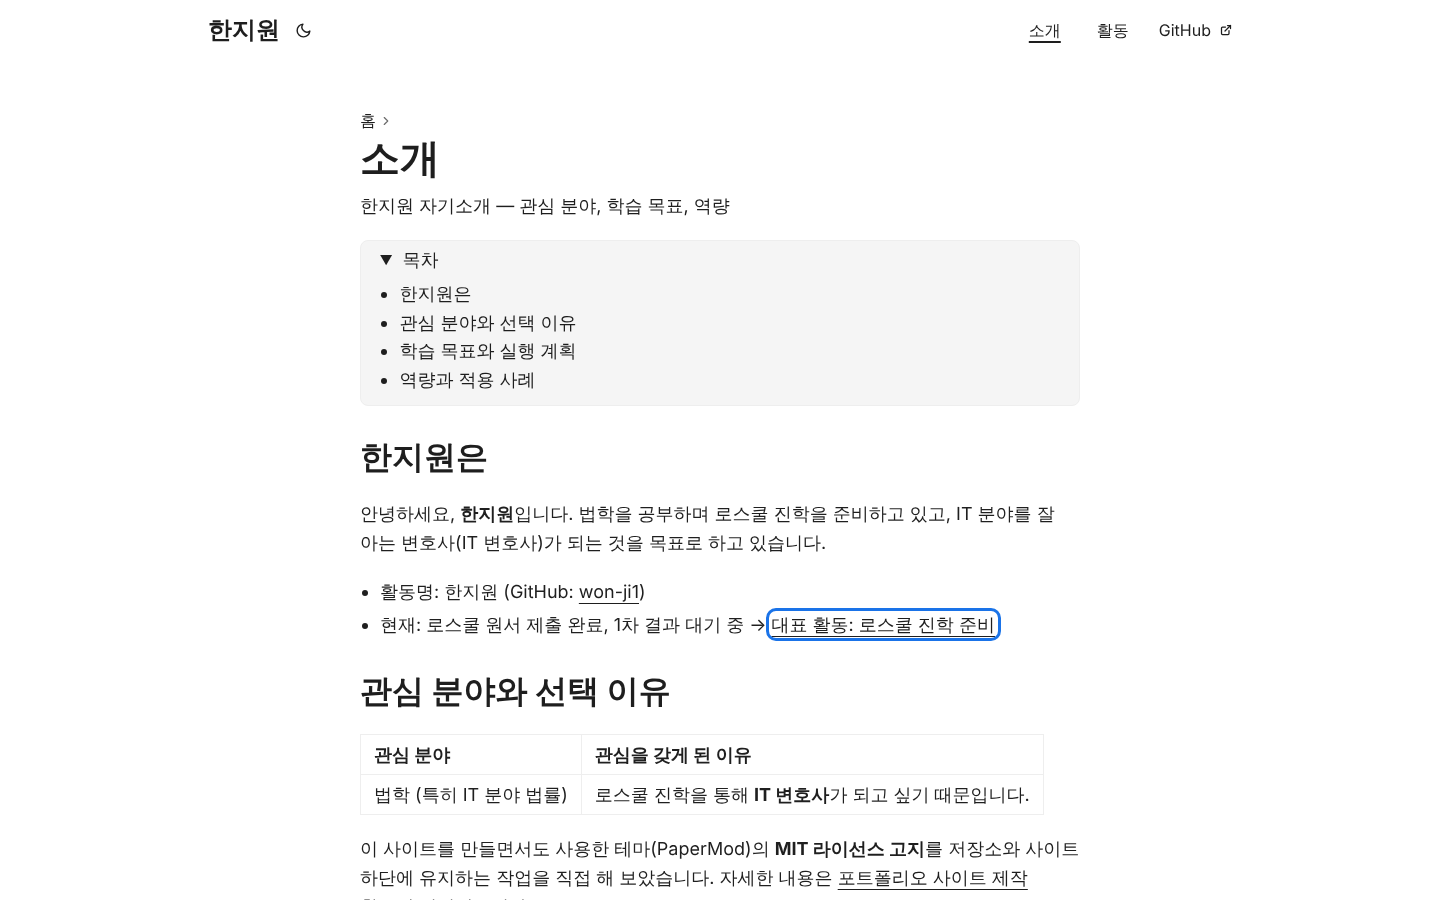
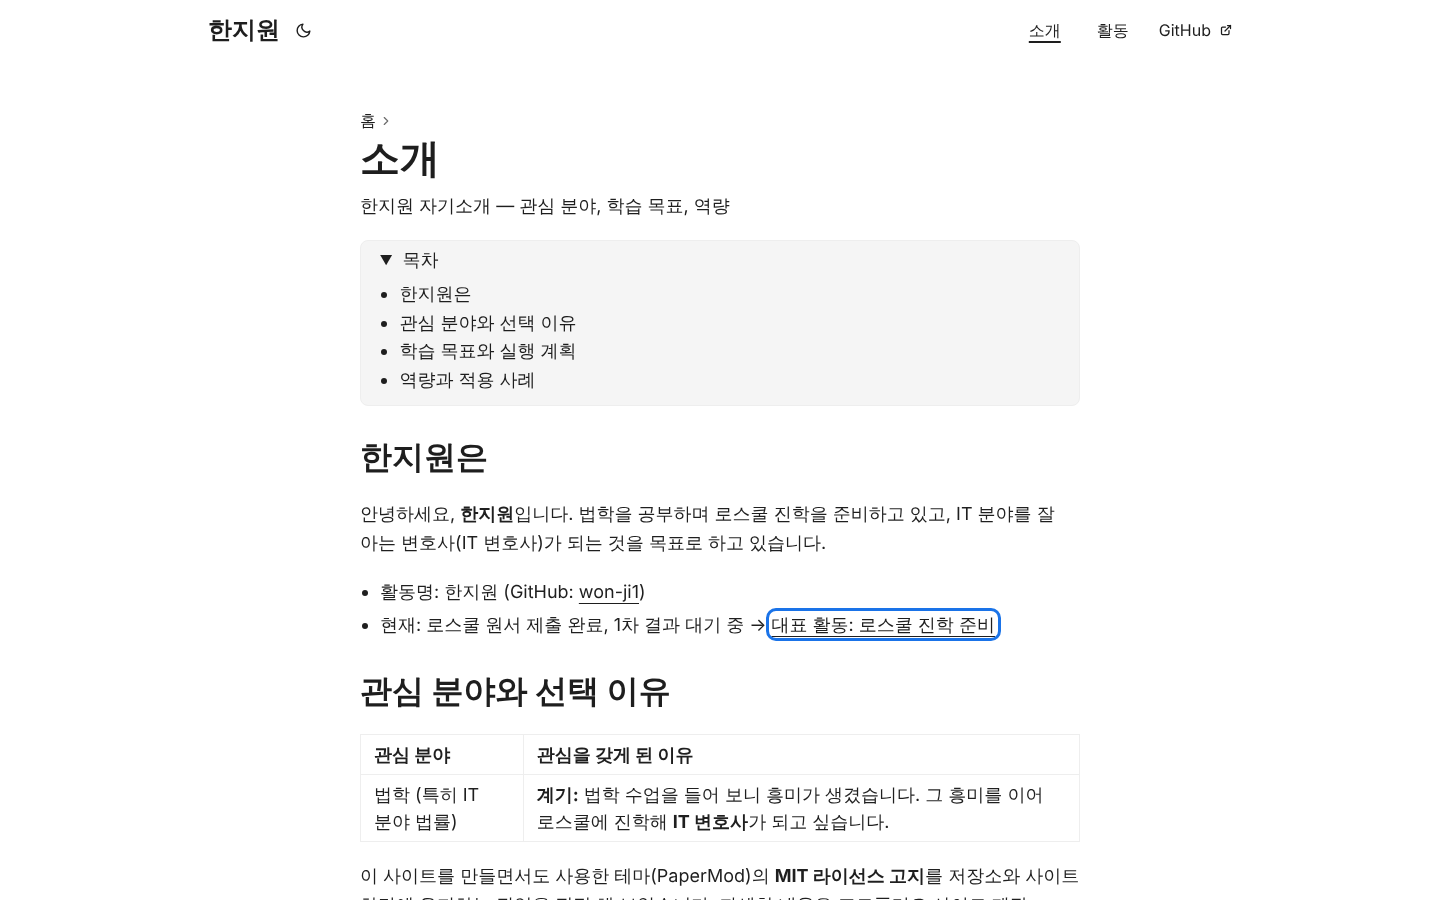
검증: 최종 사이트(a6447c6) 빌드로 자동 점검 재실행, docs/evidence/auto 결과 갱신 — 링크 34개·결함 0건
02:37 이후 바뀐 404 제목, 모바일 '맨 위로' 버튼, 검색 노출 차단, 관심 계기 문장을 반영한 빌드로 다시 점검.

Claude-Session: https://claude.ai/code/session_01VJkEkmwDDXS8CYsjr9oT2h

Changed region(s): [[0.25, 0.8089, 0.75, 1.0]]

diff --git a/docs/evidence/README.md b/docs/evidence/README.md
@@ -8,9 +8,9 @@
 
 ## 자동 점검 결과 (`docs/evidence/auto/`)
 
-`docs/tools/check_site.py`로 커밋 `c38640f`의 배포용 빌드(`python .github/pages_build.py --build`)를 점검한 결과입니다.
+`docs/tools/check_site.py`로 커밋 `a6447c6`(사이트 내용 최종본)의 배포용 빌드(`python .github/pages_build.py --build`)를 점검한 결과입니다.
 공개 주소 `https://won-ji1.github.io/portfolio/` 요청을 같은 커밋의 `public/` 파일로 응답하게 해 배포 경로(/portfolio/)를 그대로 재현했습니다.
-환경: Chromium 153.0.8010.12 (Playwright, Linux) · 점검 시각 2026-10-31 02:37 KST
+환경: Chromium 153.0.8010.12 (Playwright, Linux) · 점검 시각 2026-10-31 03:49 KST (처음 점검 02:37, 커밋 c38640f 기준 → 최종 사이트 변경 후 재점검)
 
 | 파일 | 내용 | 화면 폭 |
 | --- | --- | --- |
@@ -29,4 +29,4 @@
 | `390_home_before.png` | 개선 전 홈 화면. 제목 "한지원입니/다", 소개 "있습니/다"처럼 단어 중간 줄바꿈, 활동 요약이 "1차 결과 대…"로 잘림 | 390px |
 | `report_before.json` | 개선 전 점검 기록. 결함 0건이지만 Tab 초점이 `outline auto 1px`(브라우저 기본값), 메뉴 링크 폭 32px로 측정됨 → 2차 개선의 근거 | 1440·768·390px |
 
-참고: `docs/evidence/auto/`의 자동 점검은 커밋 `c38640f` 빌드 기준입니다. 이후 커밋은 `docs/`·`README.md`와 아래 개선 사항만 바꿨으며, 최종 커밋 빌드도 같은 스크립트로 다시 점검했습니다.
+참고: `docs/evidence/auto/`의 결과는 사이트 내용의 마지막 변경 커밋 `a6447c6` 빌드로 다시 점검한 것입니다. 그 뒤 커밋은 `docs/` 폴더만 바꿉니다.
